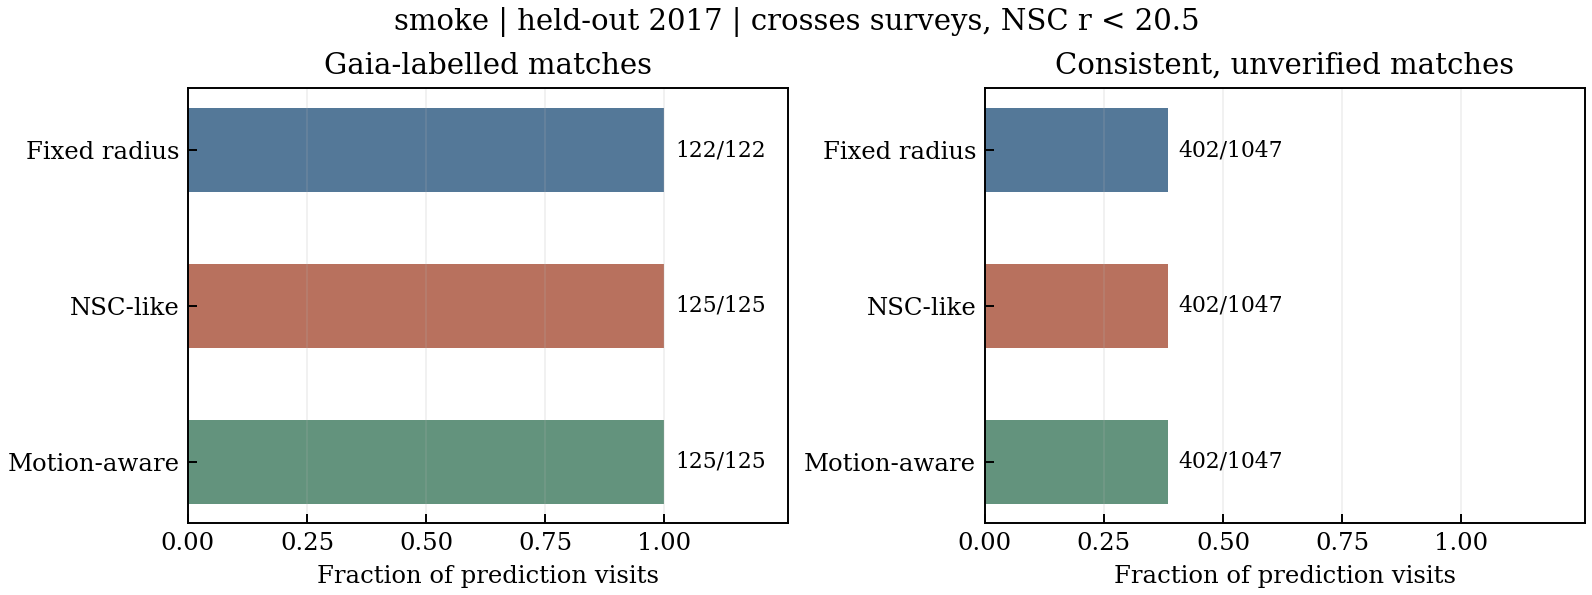
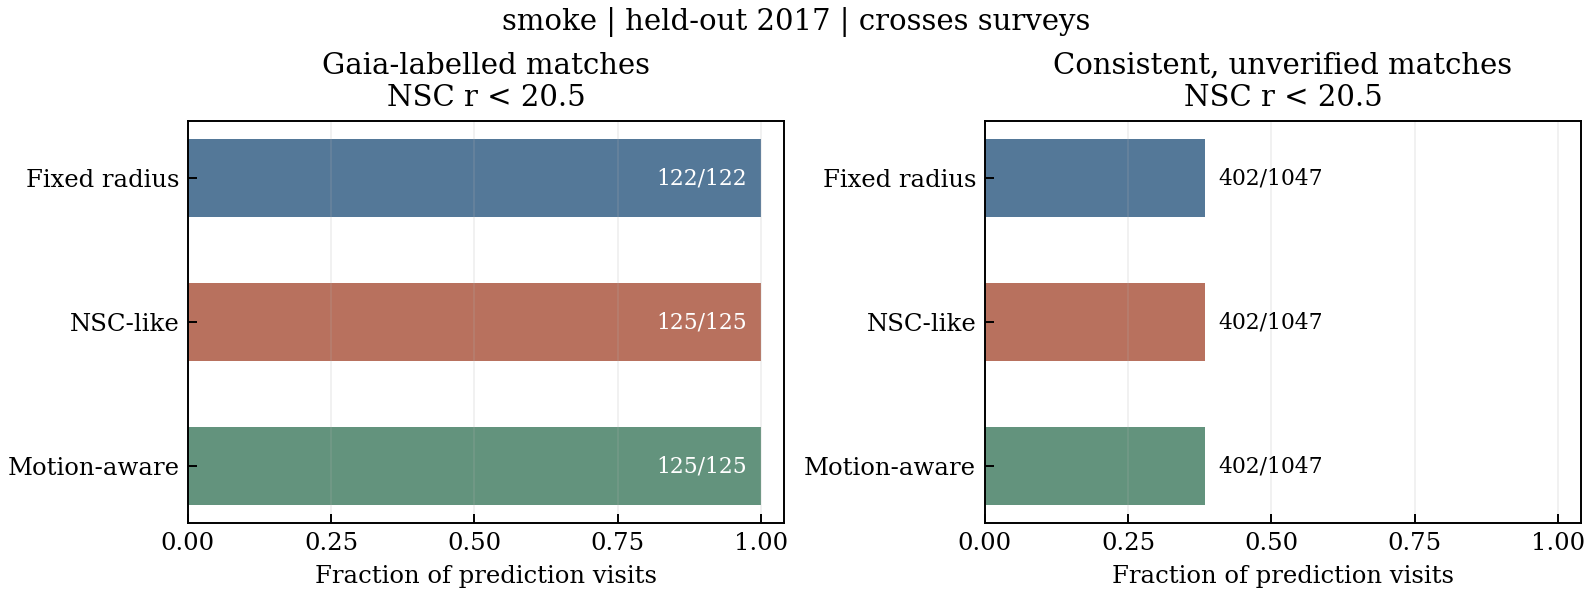
Validate faint-source predictions in a fully withheld independent year

diff --git a/src/deep_pm/v02_plots.py b/src/deep_pm/v02_plots.py
@@ -21,6 +21,10 @@ COLORS = ("#29567e", "#a64d36", "#3c785c", "#665089")
 
 def plot_regression(rows, out):
     rows = sorted(rows, key=lambda row: row["region"])
+    statistics = optical_summary(rows)
+    if len(statistics) != 1:
+        raise ValueError("Recovery panels require a single cohort")
+    role, stats = next(iter(statistics.items()))
     steps = np.arange(len(STEPS))
     fig, axes = plt.subplots(1, 2, figsize=(10.8, 4.0), layout="constrained",
                              gridspec_kw={"width_ratios": [2.15, 1]})
@@ -36,11 +40,13 @@ def plot_regression(rows, out):
     left.set(xticks=steps, xticklabels=LABELS, ylim=(-.04, 1.05),
              ylabel="Fraction of eligible Gaia sources", title="Motion-aware recovery")
     left.tick_params(axis="x", labelsize=8)
-    left.legend(loc="lower left", frameon=False, fontsize=8, ncols=2)
-    stats = optical_summary(rows)["regression"]
+    left.legend(loc="lower left", bbox_to_anchor=(0, .07), frameon=False, fontsize=8, ncols=2)
     for k, (key, label) in enumerate((("fixed", "Fixed radius"), ("nsc_like", "NSC-like"),
                                        ("motion", "Motion-aware"))):
-        lower, upper = stats[key]["contamination_identification_bounds"]
+        bounds = stats[key]["contamination_identification_bounds"]
+        if bounds is None:
+            continue
+        lower, upper = bounds
         right.plot([lower * 100, upper * 100], [k, k], "|-", color=COLORS[k],
                    markersize=10, linewidth=2)
         unknown = stats[key]["unknown_objects"]
@@ -51,7 +57,8 @@ def plot_regression(rows, out):
               title="Unlabelled-object sensitivity")
     for ax in axes:
         ax.grid(alpha=.18, linewidth=.5)
-    fig.savefig(out / "v02_regression_funnel_summary.png", dpi=175)
+    name = "regression" if role == "regression" else "independent"
+    fig.savefig(out / f"v02_{name}_funnel_summary.png", dpi=175)
     plt.close(fig)
 
 
@@ -127,21 +134,27 @@ def plot_prediction(row, out):
     hist = held["methods"]
     methods = ("fixed", "nsc_like", "motion")
     names = ("Fixed radius", "NSC-like", "Motion-aware")
-    slices = (("with_gaia", "labelled_correct", "Gaia-labelled matches"),
-              ("no_gaia", "consistent_unconfirmed", "Consistent, unverified matches"))
+    dark_available = any("cross_survey/no_gaia/r_ge_20p5" in h["all_selected"] for h in hist.values())
+    dark_bin, dark_label = ("r_ge_20p5", "≥") if dark_available else ("r_lt_20p5", "<")
+    slices = (("with_gaia", "r_lt_20p5", "Gaia-labelled matches\nNSC r < 20.5", "labelled_correct"),
+              ("no_gaia", dark_bin, f"Consistent, unverified matches\nNSC r {dark_label} 20.5",
+               "consistent_unconfirmed"))
     fig, axes = plt.subplots(1, 2, figsize=(9.1, 3.4), layout="constrained")
-    for ax, (sample, key, title) in zip(axes, slices):
+    for ax, (sample, band_slice, title, key) in zip(axes, slices):
         for j, (method, name) in enumerate(zip(methods, names)):
-            cell = hist[method]["all_selected"].get(f"cross_survey/{sample}/r_lt_20p5", {})
+            cell = hist[method]["all_selected"].get(f"cross_survey/{sample}/{band_slice}", {})
             n, total = cell.get(key, 0), cell.get("attempted", 0)
             if total:
-                ax.barh(j, n / total, height=.54, color=COLORS[j], alpha=.8)
-                ax.text(n / total + .023, j, f"{n}/{total}", va="center", fontsize=9)
-        ax.set(yticks=range(3), yticklabels=names, xlim=(0, 1.26), xticks=[0, .25, .5, .75, 1],
+                fraction = n / total
+                ax.barh(j, fraction, height=.54, color=COLORS[j], alpha=.8)
+                inset = fraction > .8
+                ax.text(fraction + (-.025 if inset else .023), j, f"{n}/{total}", va="center",
+                        ha="right" if inset else "left", color="white" if inset else "black", fontsize=9)
+        ax.set(yticks=range(3), yticklabels=names, xlim=(0, 1.04), xticks=[0, .25, .5, .75, 1],
                title=title, xlabel="Fraction of prediction visits")
         ax.invert_yaxis()
         ax.grid(axis="x", alpha=.18)
-    fig.suptitle(f"{row['region']} | held-out {held['year']} | crosses surveys, NSC r < 20.5")
+    fig.suptitle(f"{row['region']} | held-out {held['year']} | crosses surveys")
     fig.savefig(out / f"v02_{row['region']}_held_year_summary.png", dpi=175)
     plt.close(fig)
 
@@ -209,7 +222,7 @@ def plot_challenge(row, out):
 
 if __name__ == "__main__":
     parser = argparse.ArgumentParser(description=__doc__)
-    parser.add_argument("kind", choices=["regression", "coverage", "injection", "matched", "prediction",
+    parser.add_argument("kind", choices=["regression", "independent", "coverage", "injection", "matched", "prediction",
                                          "challenge"])
     parser.add_argument("out", type=Path)
     parser.add_argument("summaries", type=Path, nargs="+")
@@ -217,7 +230,7 @@ if __name__ == "__main__":
     rows = [json.loads(path.read_text()) for path in args.summaries]
     plt.rcParams.update({"font.family": "serif", "xtick.direction": "in", "ytick.direction": "in"})
     args.out.mkdir(exist_ok=True, parents=True)
-    if args.kind == "regression":
+    if args.kind in {"regression", "independent"}:
         plot_regression(rows, args.out)
     elif args.kind == "coverage":
         plot_coverage(rows, args.out)

diff --git a/PLAN.md b/PLAN.md
@@ -7,8 +7,8 @@
 | 1. 冻结 | v0.1、v0.2 分支与目录分离。输入与配置 SHA-256，每阶段有状态、提交和输入输出校验 | 已冻结，旧挑战已完成 |
 | 2. 关联修复 | 回归测试覆盖超时可行解、分量大小、时间分组、背景重复曝光、拆分和近重复。大分量保留状态及候选 | 实现并通过首批测试 |
 | 3. 四区回归 | 固定缓存，不下载新检测。对旧漏检逐对象记录生成、筛选、求解、选中、secure、自行相容 | Slurm 61395302，四区均完成并核验 |
-| 4. 验证口径 | 每巡天与最早 SDSS、关键时间组恢复。对象级错配与未知界限。整年留出区分跨巡天、有无 Gaia | 修正后 RA 30° 测试 61397819 已完成，北天独立区缺第三个 NSC 年，赤道独立区留出 61397821 |
-| 5. 独立样本 | 代表性新区域、分档挑战开发/留出，明确样本条件及近距视差、统一波段暗源 | 独立北天已核验，三法均 55/55。其余代表区 61397083，主挑战 61397447 与补充 61397705 |
+| 4. 验证口径 | 每巡天与最早 SDSS、关键时间组恢复。对象级错配与未知界限。整年留出区分跨巡天、有无 Gaia | RA 30° 与独立拥挤区已完成，后者覆盖 r ≥ 20.5 暗源。北天缺第三个 NSC 年，赤道区留出 61397821 |
+| 5. 独立样本 | 代表性新区域、分档挑战开发/留出，明确样本条件及近距视差、统一波段暗源 | 北天和拥挤区已核验。赤道区 61397083_2，主挑战 61397447 与补充 61397705 |
 | 6. 注入与负对照 | 真实芯片和 field 几何、动态缓冲、每档各阶段分母，多方向幅度控制 | 实际足迹及平移 61396805，高速重试 61397326 |
 | 7. A2 | 同源 NSC 发布自行及三路重拟合。Pal 5 run/camcol、逐 run 去除和共享误差。分开固定和端到端 | 独立 Slurm 61395303 完成，Pal 5 同源 20 颗已核验 |
 | 8. 科学判断 | 真实样本图和中文报告，保留负结果、规则、样本量、当前限制及下一阶段判据 | 已报告缓存区与 A2，独立样本和真实足迹尚待结果 |

diff --git a/WORKLOG.md b/WORKLOG.md
@@ -4,6 +4,8 @@
 
 ### v0.2
 
+- 独立拥挤区 2015 年留出 `61398194` 核验通过。三法的跨巡天无 Gaia 且 NSC r ≥ 20.5 的一致性命中为 46.8%、46.9%、47.0%。亮 Gaia 样本的曝光级预测均在 99.9% 以上，包含源内重复。本项支持暗源预测的一致性，无法标定误配率。
+
 - 独立拥挤区 `61397083_3` 完成。三法选中 96/97、97/97、0/97。97 颗均过候选生成、筛选和合并，均因大型分量无可行解退出；整年留出已运行。高自行补充作业 `61397705_6` 标准化时遇到真实零行 SDSS 返回和空表时间类型错误，取数回执完成。修复空表数值类型，增加零行校验并单列覆盖退出，38 项测试通过。
 
 - 按冻结的 10 mas 绝对视差阈值加入高自行挑战切片，只读取各场经校验的 Gaia 验证输入并发布队列级计数。36 项本地测试通过。主、补充阵列已分别达到 3、2 个并发作业。
